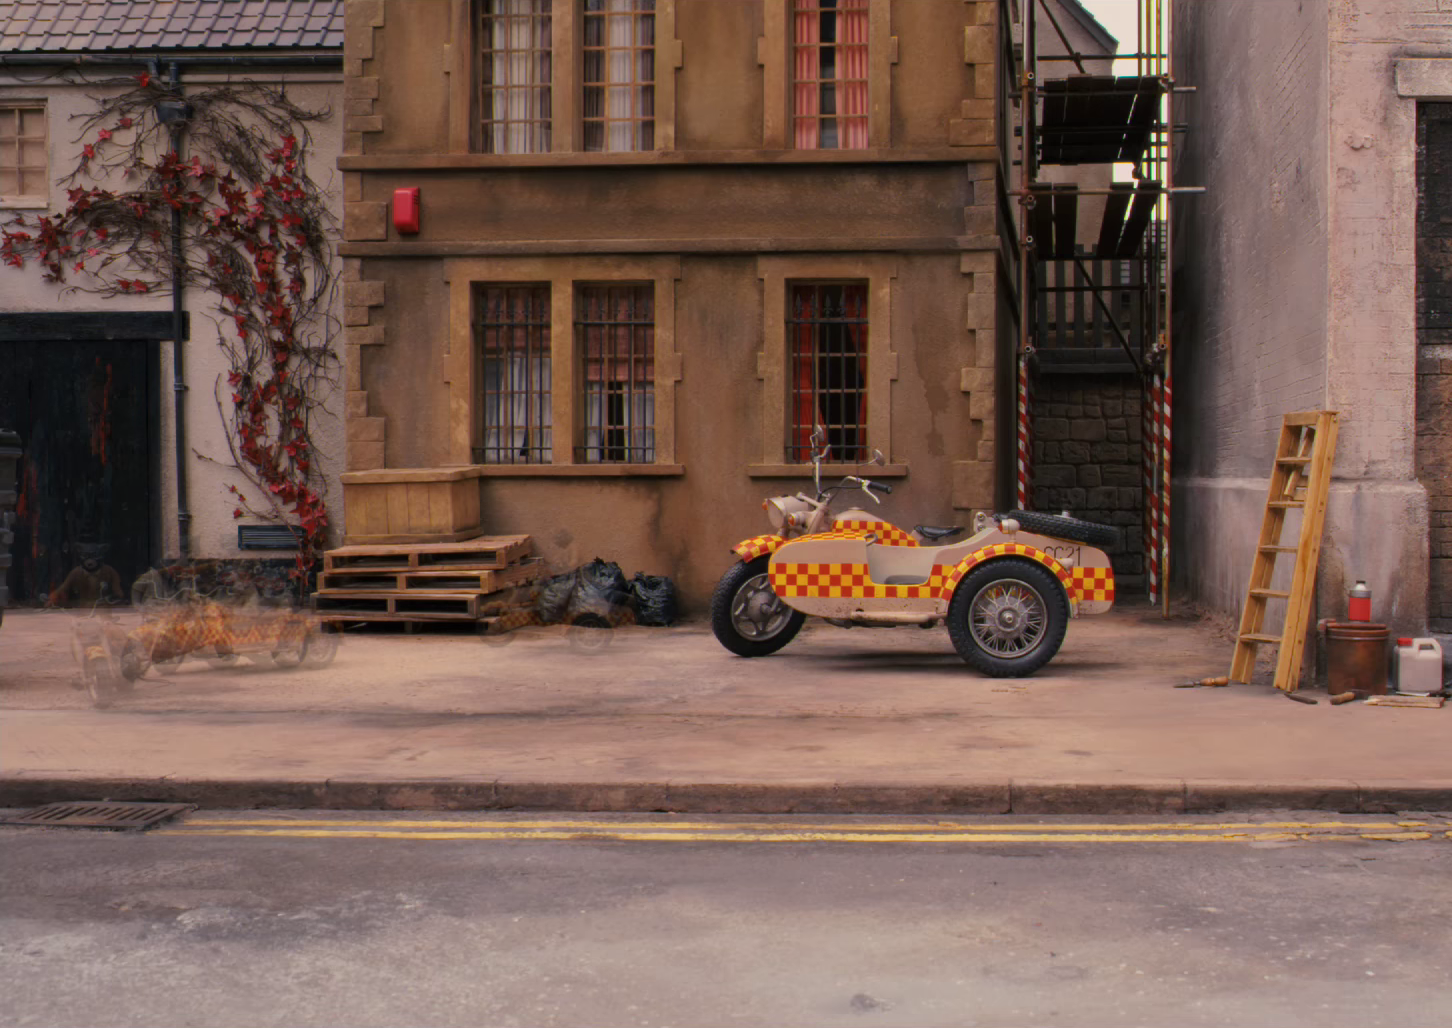
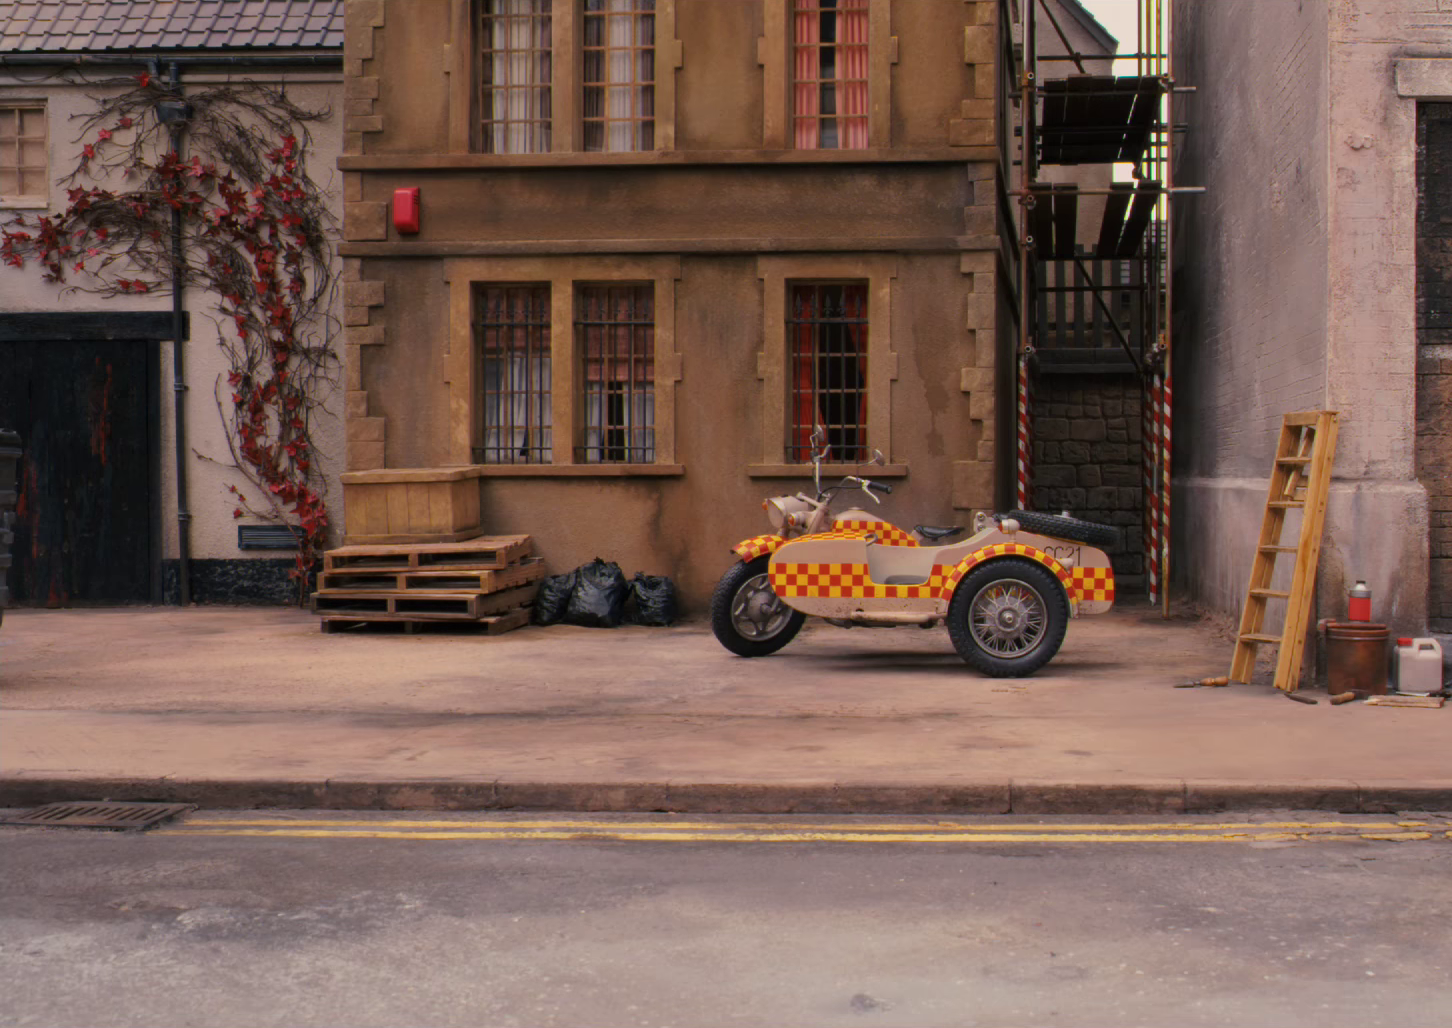
Created a better image

Changed region(s): [[0.031, 0.5292, 0.2479, 0.6848], [0.3409, 0.5603, 0.4339, 0.6537]]

diff --git a/TemporalProcessing/TemporalProcessing.py b/TemporalProcessing/TemporalProcessing.py
@@ -20,27 +20,32 @@ for i in range(int(number)):
 
 #Creating a canvas that is the same size as my images
 canvas = Image.new("RGB", (image[0].width,image[0].height), "white")
-r_sum = 0;
-g_sum = 0;
-b_sum = 0;
+r_sum = [];
+g_sum = [];
+b_sum = [];
 
+#median value
+med = int(number)/2
 
 for i in range(canvas.height):
     for j in range(canvas.width):
         for k in range(int(number)):
             num=image[k].getpixel((j,i))
-            r_sum = r_sum + num[0]
-            g_sum = g_sum + num[1]
-            b_sum = b_sum + num[2]
+            r_sum.append(num[0])
+            g_sum.append(num[1])
+            b_sum.append(num[2])
+            r_sum.sort()
+            g_sum.sort()
+            b_sum.sort()
         color = (
-            int( (r_sum)/int(number)),
-            int( (g_sum)/int(number)),
-            int( (b_sum)/int(number))
+            r_sum[int(med)],
+            g_sum[int(med)],
+            b_sum[int(med)]
             )
         #reset colors
-        r_sum = 0;
-        g_sum = 0;
-        b_sum = 0;
+        r_sum = [];
+        g_sum = [];
+        b_sum = [];
         canvas.putpixel((j,i), color)
 #Saving the image I have created
 canvas.save("images/done.png")
